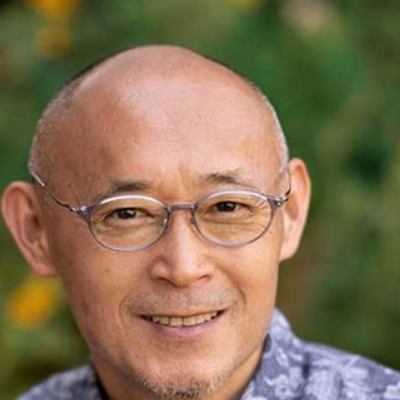
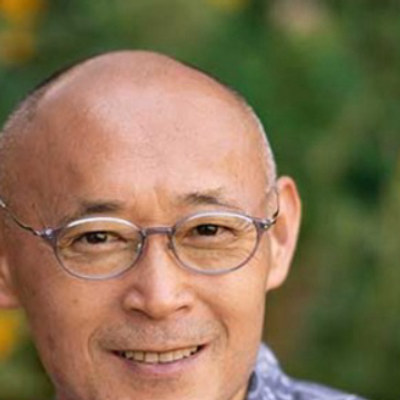
Updates: 実施期間 1/30まで; 募集対象高崎大歓迎; THE SIX PM; re-crop hasegawa/honda_k photos; footer NTT東日本グループ化, mail更新, light bg, AKATSUKIロゴ白塗り解除

diff --git a/css/style.css b/css/style.css
@@ -2211,15 +2211,15 @@ header { height: 84px; }
 .cta-deadline-time { color: var(--dc-blue); }
 .cta-warning { color: var(--dc-magenta); border-top-color: rgba(198,53,122,0.3); }
 
-/* ===== FOOTER ===== */
+/* ===== FOOTER (lightened: D-CROSSロゴ + AKATSUKIロゴが自然に見えるトーン) ===== */
 footer {
-  background: #1a1f2e;
-  color: #e5e8ef;
+  background: var(--bg-base);
+  color: var(--text);
 }
 footer .footer-info-title {
-  color: #fff;
+  color: var(--black);
   font-family: var(--font-en);
-  letter-spacing: 0.14em;
+  letter-spacing: 0.16em;
 }
 footer .footer-office-name,
 footer .footer-office-label,
@@ -2227,20 +2227,23 @@ footer .footer-office-mail,
 footer .footer-office-link,
 footer .footer-note,
 footer .footer-akatsuki-link {
-  color: #c7cad3;
+  color: var(--text);
 }
 footer .footer-office-mail a,
 footer .footer-office-link a,
 footer .footer-akatsuki-link a {
-  color: #e5e8ef;
+  color: var(--dc-blue);
+  text-decoration: underline;
+  text-underline-offset: 3px;
 }
 footer .footer-office-mail a:hover,
 footer .footer-office-link a:hover,
 footer .footer-akatsuki-link a:hover {
-  color: var(--dc-yellow);
+  color: var(--dc-magenta);
 }
-.footer-bottom { border-top-color: rgba(255,255,255,0.08); }
-.footer-akatsuki-img { filter: brightness(0) invert(1) opacity(0.85); }
+.footer-bottom { border-top-color: var(--gray-border); }
+/* AKATSUKIロゴは原本のまま表示する（白塗りfilter解除） */
+.footer-akatsuki-img { filter: none; }
 
 /* ===== RESPONSIVE tweaks ===== */
 @media (max-width: 900px) {

diff --git a/index.html b/index.html
@@ -268,11 +268,11 @@
         </div>
         <div class="req-card-body">
           <p class="req-card-label">実施期間</p>
-          <p class="req-card-main">2026.8.20<span class="req-dow">(木)</span> <span class="req-arrow">→</span> 2027.1.22<span class="req-dow">(金)</span></p>
+          <p class="req-card-main">2026.8.20<span class="req-dow">(木)</span> <span class="req-arrow">→</span> 2027.1.30<span class="req-dow">(土)</span></p>
           <div class="req-card-notes">
             <p class="req-note-head">エントリー締切</p>
             <p>1次募集: 2026年7月10日（金）12:00 まで</p>
-            <p class="req-note-warn">※ 合計10プロジェクト採択予定。原則として1次募集で採択枠を充足する想定です。</p>
+            <p class="req-note-warn">※ 合計10プロジェクト採択予定。原則として1次募集で採択枠が充足した場合、2次募集は実施いたしません。</p>
           </div>
         </div>
       </div>
@@ -290,7 +290,7 @@
           <p class="req-card-label">募集対象</p>
           <ul class="req-list">
             <li>2026年4月1日時点で、15歳〜39歳 以下の方</li>
-            <li>群馬県に 通学・勤務・在住されている方（高崎で活動されている方、歓迎）</li>
+            <li>群馬県に 通学・勤務・在住されている方（高崎エリアで活動されている方、大歓迎）</li>
             <li>上記地域に縁があり、将来的に U ターン／I ターンを検討されている方</li>
           </ul>
           <p class="req-note-warn">※ <strong>学部・専攻不問（文系・理系いずれも歓迎）</strong>。以下の実施場所での基本現地参加が条件となります。</p>
@@ -510,7 +510,7 @@
 
     <!-- THE SIX (PM) -->
     <div class="section-heading fade-in" style="margin-top: 72px;">
-      <span class="section-heading-en">THE SIX</span>
+      <span class="section-heading-en">THE SIX PM</span>
       <p class="section-heading-ja">プロジェクトマネージャー — 伴走する6人</p>
     </div>
     <p class="pm-section-desc fade-in">採択された各プロジェクトに、5か月間 1対1 で寄り添う<strong> D-CROSS の6人</strong>。文系・理系・地域・グローバルを越えて、それぞれの専門性を持って実装まで伴走します。</p>
@@ -787,8 +787,8 @@
     <div class="footer-info">
       <h3 class="footer-info-title">INFORMATION</h3>
       <p class="footer-office-name">D-CROSS TAKASAKI プログラム事務局</p>
-      <p class="footer-office-label">〈 補助事業者 〉NTT東日本株式会社 埼玉事業部 群馬支店<br>〈 事務局支援 〉株式会社NTT DXパートナー</p>
-      <p class="footer-office-mail">Mail：<a href="mailto:[email redacted]">[email redacted]</a></p>
+      <p class="footer-office-label">〈 主催・事務局運営 〉NTT東日本グループ</p>
+      <p class="footer-office-mail">Mail：<a href="mailto:[email redacted]">[email redacted]</a></p>
       <p class="footer-office-link">お問い合わせは <a href="contact.html">CONTACT</a> ページよりお願いいたします。</p>
       <p class="footer-office-link">連携協定：<a href="https://www.tcue.ac.jp/" target="_blank" rel="noopener">公立大学法人 高崎経済大学</a></p>
     </div>

diff --git a/contact.html b/contact.html
@@ -86,8 +86,8 @@
     <div class="footer-info">
       <h3 class="footer-info-title">INFORMATION</h3>
       <p class="footer-office-name">D-CROSS TAKASAKI プログラム事務局</p>
-      <p class="footer-office-label">〈 補助事業者 〉NTT東日本株式会社 埼玉事業部 群馬支店<br>〈 事務局支援 〉株式会社NTT DXパートナー</p>
-      <p class="footer-office-mail">Mail：<a href="mailto:[email redacted]">[email redacted]</a></p>
+      <p class="footer-office-label">〈 主催・事務局運営 〉NTT東日本グループ</p>
+      <p class="footer-office-mail">Mail：<a href="mailto:[email redacted]">[email redacted]</a></p>
       <p class="footer-office-link">お問い合わせは <a href="contact.html">CONTACT</a> フォームよりお願いいたします。</p>
       <p class="footer-office-link">連携協定：<a href="https://www.tcue.ac.jp/" target="_blank" rel="noopener">公立大学法人 高崎経済大学</a></p>
     </div>

diff --git a/entry.html b/entry.html
@@ -75,8 +75,8 @@
     <div class="footer-info">
       <h3 class="footer-info-title">INFORMATION</h3>
       <p class="footer-office-name">D-CROSS TAKASAKI プログラム事務局</p>
-      <p class="footer-office-label">〈 補助事業者 〉NTT東日本株式会社 埼玉事業部 群馬支店<br>〈 事務局支援 〉株式会社NTT DXパートナー</p>
-      <p class="footer-office-mail">Mail：<a href="mailto:[email redacted]">[email redacted]</a></p>
+      <p class="footer-office-label">〈 主催・事務局運営 〉NTT東日本グループ</p>
+      <p class="footer-office-mail">Mail：<a href="mailto:[email redacted]">[email redacted]</a></p>
       <p class="footer-office-link">お問い合わせは <a href="contact.html">CONTACT</a> ページよりお願いいたします。</p>
       <p class="footer-office-link">連携協定：<a href="https://www.tcue.ac.jp/" target="_blank" rel="noopener">公立大学法人 高崎経済大学</a></p>
     </div>